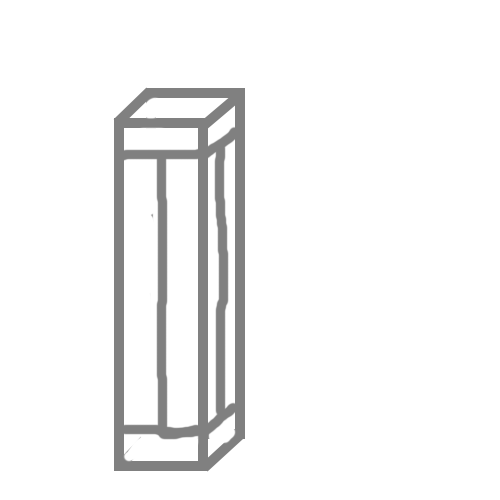
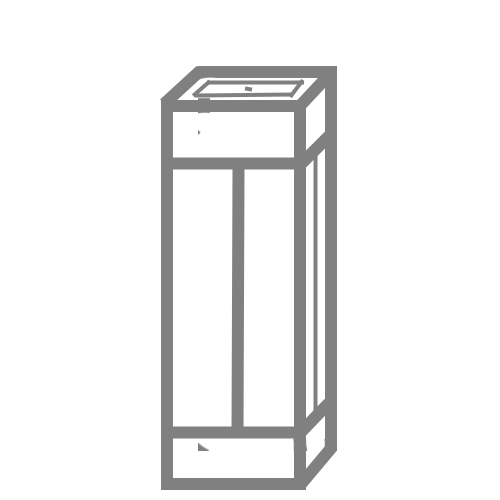
add 3 tutorial pages

Changed region(s): [[0.21, 0.12, 0.69, 0.99]]

diff --git a/src/scenes/Tutorial.ts b/src/scenes/Tutorial.ts
@@ -1,0 +1,143 @@
+import * as PIXI from "pixi.js";
+import { Scene } from "./Scene"
+import { UIHelper } from "../UI/UIHelper";
+import { EventDispatcher } from "../utils/EventDispatcher"
+import { AssetLoader } from "../core/AssetLoader";
+
+
+const eventDispatcher = new EventDispatcher()
+const assetLoader = new AssetLoader()
+
+
+export class Tutorial extends Scene {
+
+
+    private currentPage: number = 0
+    private pages: PIXI.Container[] = []
+
+    private btnPrev: PIXI.Container = UIHelper.createButton(0, 25, 200, 50, "Previous", 20, 0xFFFFFF);
+    private btnNext: PIXI.Container = UIHelper.createButton(0, 25, 200, 50, "Next", 20, 0xFFFFFF);
+    /**
+     *
+     */
+    constructor(app : PIXI.Application) {
+        super(app)
+        this.container.sortableChildren = true
+    }
+
+    constructScene(): void {
+        const txtTitle = UIHelper.createText(500, 25, "Tutorial", 50, "0xFFFFFF", true);
+        this.container.addChild(txtTitle);
+        this.btnPrev.x = 0
+        this.btnPrev.y = 900
+
+        this.btnNext.x = 1200
+        this.btnNext.y = 900
+
+
+        this.buildPage("Killers on the loose!", "These are your enemies called \"Killers\". They are after you and your \"City\"! Your objective is to stop them from reaching the end of the path.", "tutorial1");
+        this.buildPage("Pillars - Your Defense",
+            [
+                "To stop them, you must build \"Pillars\" that attack killers. They cost money, depending on their strength",
+                "Each pillar has its own purpose, where each may be used to beat all the killers. Some pillars have special attacks. For example, the Ice Pillar is capable of slowing killers down. Another pillar, called the Sniper Pillar which is orange in colour, is truly capable of shooting from a large distance!",
+            ],
+            "tutorial2");
+        this.buildPage("Pillars - Your Defense (part 2)", "You start with a few pillars to begin with. However as the waves go by, you will need to rely on stronger ones.", "tutorial3", 1.5)
+        this.updatePageVisibility()
+
+
+
+        const btnBackToMain = UIHelper.createButton(0, 25, 200, 50, "Back to Main Menu", 20, 0xFFFFFF);
+        this.container.addChild(btnBackToMain);
+        btnBackToMain.on("pointerdown", () => {
+            eventDispatcher.fireEvent("btnBackToMainMenuClick");
+        });
+
+
+        this.container.addChild(this.btnPrev);
+        this.btnPrev.on("pointerdown", () => {
+            this.currentPage--
+            this.updatePageVisibility()
+        });
+
+        this.container.addChild(this.btnNext);
+        this.btnNext.on("pointerdown", () => {
+            this.currentPage++
+            this.updatePageVisibility()
+        });
+
+    }
+
+    private updatePageVisibility() {
+        this.pages.forEach(page => page.visible = false)
+        this.pages[this.currentPage].visible = true
+        this.btnNext.visible = this.currentPage < this.pages.length - 1
+        this.btnPrev.visible = this.currentPage > 0
+    }
+
+    private buildPage(heading: string, helpText: string | string[], screenshotAsset?: string, screenshotScale?: number) {
+
+
+        const page = new PIXI.Container();
+        this.container.addChild(page);
+        this.pages.push(page)
+
+        const pageLeftPane = new PIXI.Container();
+        page.addChild(pageLeftPane);
+        const paneWidth = 800;
+        const paneHeight = 700;
+        pageLeftPane.x = 0;
+        pageLeftPane.y = 150;
+
+        const bgColour = new PIXI.Graphics();
+        bgColour.drawRect(0, 0, paneWidth, paneHeight);
+        bgColour.endFill();
+        pageLeftPane.addChild(bgColour);
+
+        const txtHeading = UIHelper.createText(0, 0, heading, 50, "0X00FFFF", false);
+        pageLeftPane.addChild(txtHeading);
+
+        if (typeof helpText === "string") {
+            const txtDescription = UIHelper.createText(0, 100, helpText as string, 30, "0XFFFFFF", false, paneWidth);
+            pageLeftPane.addChild(txtDescription);
+        }
+        if (Array.isArray(helpText)) {
+            let yPad = 0
+            helpText.forEach(text => {
+                const txtDescription = UIHelper.createText(0, 100 + yPad, text, 30, "0XFFFFFF", false, paneWidth);
+                pageLeftPane.addChild(txtDescription);
+                yPad += txtDescription.height + 50
+            })
+
+        }
+
+
+        const pageRightPane = new PIXI.Container();
+        page.addChild(pageRightPane);
+        const paneWidthRight = 800;
+        const paneHeightRight = 700;
+        pageRightPane.x = 800;
+        pageRightPane.y = 150;
+
+        const bgColourRight = new PIXI.Graphics();
+        bgColour.drawRect(0, 0, paneWidthRight, paneHeightRight);
+        bgColour.endFill();
+        pageLeftPane.addChild(bgColourRight);
+
+        if (screenshotAsset) {
+
+            if (!assetLoader.otherImages || !assetLoader.otherImages[screenshotAsset]) {
+                throw new Error("Tutorial screenshot failed to load!");
+            }
+
+            const screenshotSprite = PIXI.Sprite.from(assetLoader.otherImages[screenshotAsset]);
+
+            if (screenshotScale) {
+                screenshotSprite.scale.set(screenshotScale);
+            }
+            pageRightPane.addChild(screenshotSprite);
+
+        }
+
+    }
+}

diff --git a/src/UI/UIHelper.ts b/src/UI/UIHelper.ts
@@ -26,13 +26,13 @@ export class UIHelper {
         return buttonContainer
     }
 
-    static createText(x: number, y: number, text: string, fontSize: number, textColour: string, centered?: boolean): PIXI.Container {
+    static createText(x: number, y: number, text: string, fontSize: number, textColour: string, centered?: boolean, wordwrapWidth?: number): PIXI.Container {
         const textContainer = new PIXI.Container()
         textContainer.eventMode = "static"
         textContainer.x = x
         textContainer.y = y
 
-        const textObject = new Text(text, new TextStyle({ fontFamily: "Times New Roman", fontSize: fontSize, fill: textColour || 0xFFFFFF, align: "center" }))
+        const textObject = new Text(text, new TextStyle({ fontFamily: "Times New Roman", fontSize: fontSize, fill: textColour || 0xFFFFFF, align: "center", wordWrap: true, wordWrapWidth: wordwrapWidth }))
         if (centered) {
             textObject.x = (textContainer.width - textObject.width) / 2;
             textObject.y = (textContainer.height - textObject.height) / 2;

diff --git a/src/core/Game.ts b/src/core/Game.ts
@@ -9,6 +9,7 @@ import { AssetLoader } from "./AssetLoader"
 import * as PIXI from "pixi.js";
 import { GameSaveData } from "../ts/types/GameSaveData"
 import { AudioManager } from "../managers/AudioManager"
+import { Tutorial } from "../scenes/Tutorial"
 
 const assetLoader = new AssetLoader()
 const eventDispatcher = new EventDispatcher()
@@ -78,6 +79,7 @@ export class Game {
 
         eventDispatcher.on("newGameClick", () => this.toPregameSelection())
         eventDispatcher.on("btnBackToMainMenuClick", () => this.toMainMenu())
+        eventDispatcher.on("tutorialClick", () => this.toTutorial())
     }
 
     run() {
@@ -123,6 +125,12 @@ export class Game {
         const pregameSelection = new PregameSelection(this.app)
         pregameSelection.constructScene()
         this.sceneManager?.transitionScene(pregameSelection)
+    }
+
+    private toTutorial() {
+        const tutorialScene = new Tutorial(this.app)
+        tutorialScene.constructScene()
+        this.sceneManager?.transitionScene(tutorialScene)
     }
 
     private toMainMenu() {

diff --git a/src/core/AssetLoader.ts b/src/core/AssetLoader.ts
@@ -120,7 +120,10 @@ export class AssetLoader {
         Assets.addBundle("otherImages", {
             "mainTitle" : "assets/images/td_title.png",
             "mainTitleImage" : "assets/images/pillars_killers_title_pic.png",
-            "gameoverGraveyard" : "assets/images/gameover_rip.png"
+            "gameoverGraveyard" : "assets/images/gameover_rip.png",
+            "tutorial1" : "assets/images/tutorial_1.png",
+            "tutorial2" : "assets/images/tutorial_2.png",
+            "tutorial3" : "assets/images/tutorial_3.png"
         })
 
         Assets.addBundle("mapBackgroundImages", {

diff --git a/src/scenes/MainMenu.ts b/src/scenes/MainMenu.ts
@@ -49,8 +49,9 @@ export class MainMenu extends Scene {
         settingsButton.zIndex = 1
         this.container.addChild(settingsButton)
 
-        const tutorialButton = UIHelper.createButton(450,800,400,50, "Tutorial")
-        tutorialButton.zIndex = 1
-        this.container.addChild(tutorialButton)
+        const btnTutorial = UIHelper.createButton(450,800,400,50, "Tutorial")
+        btnTutorial.zIndex = 1
+        this.container.addChild(btnTutorial)
+        btnTutorial.on("pointerdown", () => eventDispatcher.fireEvent("tutorialClick"))
     }
 }

diff --git a/src/scenes/Scene.ts b/src/scenes/Scene.ts
@@ -1,6 +1,6 @@
 import * as PIXI from "pixi.js";
 
-export class Scene {
+export abstract class Scene {
     app: PIXI.Application<PIXI.ICanvas>;
     container: PIXI.Container<PIXI.DisplayObject>;
 
@@ -17,9 +17,7 @@ export class Scene {
         }
     }
 
-    constructScene() {
-
-    }
+    abstract constructScene() : void
 
     pause() {
         this.container.visible = false
